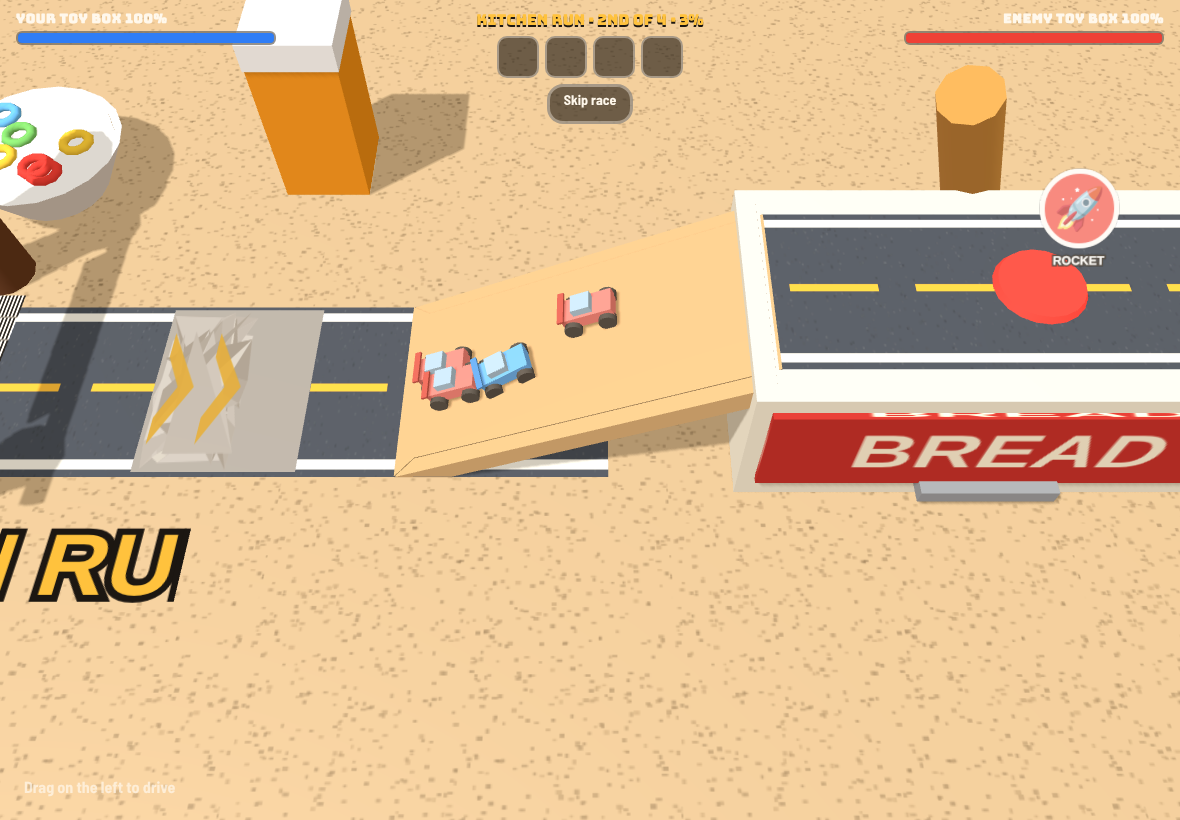
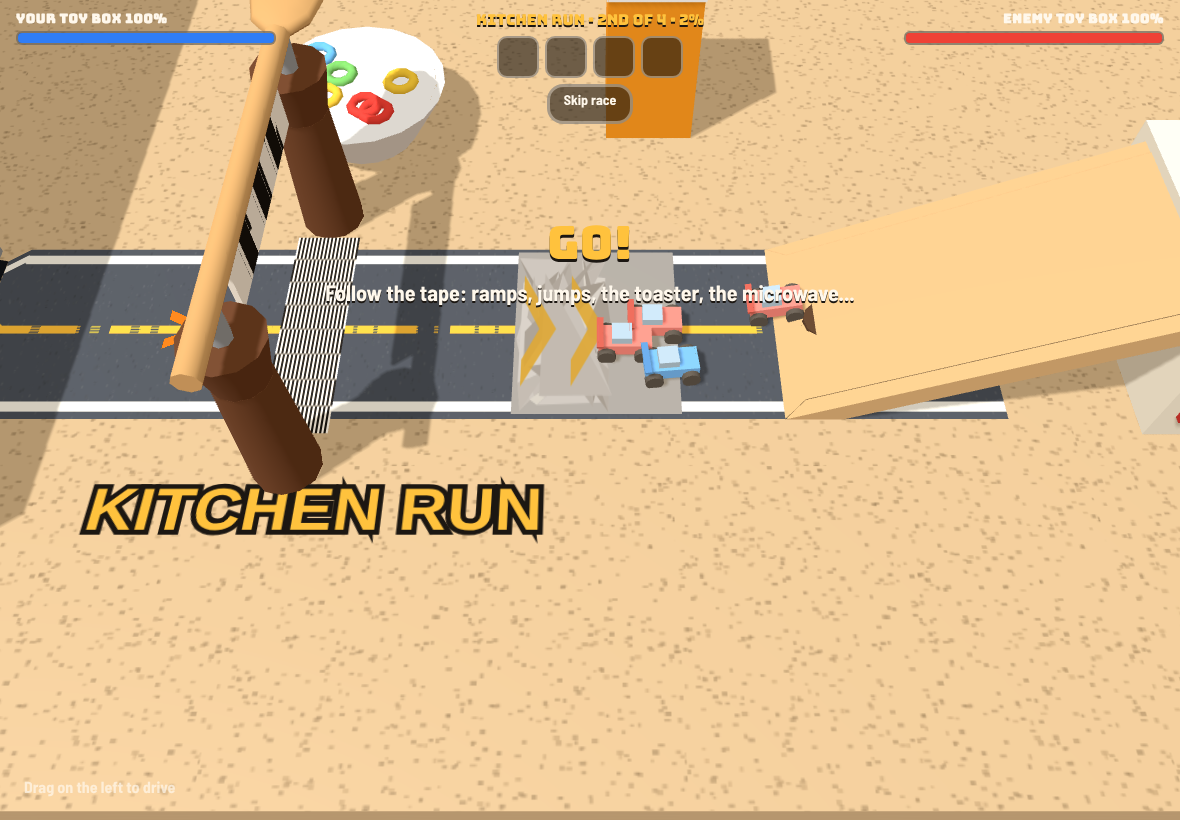
Kitchen Run: fix clipped floor sign, retake shots 42 and 47, test numbers in HANDOVER
Claude-Session: https://claude.ai/code/session_0171oc5wTsPoimaja7RRfUcs

diff --git a/games/baguettes-and-ballistics/index.html b/games/baguettes-and-ballistics/index.html
@@ -6089,7 +6089,7 @@ const kTex = {
   }),
   sky: () => kCanvas(128, 128, (g) => { const gr = g.createLinearGradient(0, 0, 0, 128); gr.addColorStop(0, '#5aa9ef'); gr.addColorStop(1, '#cfe9ff'); g.fillStyle = gr; g.fillRect(0, 0, 128, 128); g.fillStyle = 'rgba(255,255,255,0.85)'; for (const [x, y, r] of [[30, 40, 12], [44, 36, 15], [58, 42, 11], [90, 80, 10], [102, 76, 13]]) { g.beginPath(); g.arc(x, y, r, 0, 7); g.fill(); } g.fillStyle = '#5c8f4a'; g.fillRect(0, 110, 128, 18); }),
   start: () => kCanvas(512, 128, (g) => { for (let i = 0; i < 32; i++) for (let j = 0; j < 8; j++) { g.fillStyle = (i + j) % 2 ? '#1c1712' : '#fff8ec'; g.fillRect(i * 16, j * 16, 16, 16); } }),
-  word: () => kCanvas(512, 128, (g) => { g.font = '900 92px sans-serif'; g.textAlign = 'center'; g.textBaseline = 'middle'; g.lineWidth = 14; g.strokeStyle = '#1c1712'; g.strokeText('KITCHEN RUN', 256, 66); g.fillStyle = '#ffc23d'; g.fillText('KITCHEN RUN', 256, 66); }),
+  word: () => kCanvas(512, 128, (g) => { g.font = '900 62px sans-serif'; g.textAlign = 'center'; g.textBaseline = 'middle'; g.lineWidth = 10; g.strokeStyle = '#1c1712'; g.strokeText('KITCHEN RUN', 256, 66); g.fillStyle = '#ffc23d'; g.fillText('KITCHEN RUN', 256, 66); }),
   road: () => kCanvas(128, 256, (g) => {
     g.fillStyle = '#4b5059'; g.fillRect(0, 0, 128, 256);
     for (let i = 0; i < 500; i++) { const v = 60 + kRand(i) * 40 | 0; g.fillStyle = `rgba(${v},${v + 4},${v + 10},0.6)`; g.fillRect(kRand(i + 1) * 128, kRand(i + 2) * 256, 2, 2); }

diff --git a/games/baguettes-and-ballistics/README.md b/games/baguettes-and-ballistics/README.md
@@ -9,7 +9,7 @@ to play on an iPad. See [DESIGN.md](DESIGN.md) for where it's going.
 - **Keyboard:** WASD or arrows, Space fire, T truck, G digger, 1 gun turret,
   2 rocket turret, U upgrade, 3 drones, 4–9 vehicles at home.
 
-**Loadout Race: the Kitchen Run (every level).** Each level opens with one lap (about 45 to 55 seconds) of an obstacle course through a whole toy kitchen, against three red cars: up a chopping board onto the bread bin and jump the gap, through a kitchen-roll tube (or the risky cutlery-drawer shortcut), up cereal-box ramps to the window sill (or bounce up on the whisk), down a baking-tray slide, over floating sponges in the sink (or along the narrow ruler), up a butter knife into the toaster, which fires you across to the island, round the hob rings (one is hot), over the cake, under the mini fridge and into the microwave: ding, you come out of the oven door at the finish. Fall off and you are back on the road a little way behind. Floating tokens are the tool buttons: drive through one to win that tool. You carry 4 at most (a 5th swaps out your oldest); Gun turret, Dump truck and Digger are always yours, plus one must-have on some levels (Flare on level 3, Gunboat on level 4, Tank squad on level 6). Where you finish sets your starting cereal (1st +40, 2nd +25, 3rd +12, 4th +5) and 1st place gets a free Upgrade. The enemy's best car sets its own limited loadout the same way. A YOUR LOADOUT card then explains each tool in one line, and the battle shows only those buttons (7 to 9 instead of 8 to 13). "Skip race" on the intro gives a ready-made loadout.
+**Loadout Race: the Kitchen Run (every level).** Each level opens with one lap (about 45 to 60 seconds; a perfect run is 40) of an obstacle course through a whole toy kitchen, against three red cars: up a chopping board onto the bread bin and jump the gap, through a kitchen-roll tube (or the risky cutlery-drawer shortcut), up cereal-box ramps to the window sill (or bounce up on the whisk), down a baking-tray slide, over floating sponges in the sink (or along the narrow ruler), up a butter knife into the toaster, which fires you across to the island, round the hob rings (one is hot), over the cake, under the mini fridge and into the microwave: ding, you come out of the oven door at the finish. Fall off and you are back on the road a little way behind. Floating tokens are the tool buttons: drive through one to win that tool. You carry 4 at most (a 5th swaps out your oldest); Gun turret, Dump truck and Digger are always yours, plus one must-have on some levels (Flare on level 3, Gunboat on level 4, Tank squad on level 6). Where you finish sets your starting cereal (1st +40, 2nd +25, 3rd +12, 4th +5) and 1st place gets a free Upgrade. The enemy's best car sets its own limited loadout the same way. A YOUR LOADOUT card then explains each tool in one line, and the battle shows only those buttons (7 to 9 instead of 8 to 13). "Skip race" on the intro gives a ready-made loadout.
 
 **Level select.** The title card has 6 level buttons; pick any level from the start. Stars (win, under 8 minutes, no truck lost) are saved on the device.
 

diff --git a/games/baguettes-and-ballistics/HANDOVER.md b/games/baguettes-and-ballistics/HANDOVER.md
@@ -727,6 +727,8 @@ One lap of an obstacle course through a whole toy kitchen, built in its own spac
 
 **Shared-code edits** (small, marked "Kitchen Run"): `stageLevel` rewritten; `reset` builds the stand-in for every level and starts the race only on it, starting workers only off it; `startRace` → `krStart` when `cfg.kr`; `cleanupRace` → `krCleanup`; `raceProg`, `raceUpdate` (→ `krUpdate`), `raceArrow` (hidden); `tokensUpdate` checks height; `render` calls `krCam` for the race; intro card text; `SOUNDS.ding` added from the block.
 
+**Test numbers (finish, 2 Nov 2026).** A scripted bot that steers at the path 7 points ahead (main line, no shortcuts, picks up all tokens) finishes in 40.2 s on levels 1 to 4 and 6 and 41.1 s on level 5 (hob), 0 falls; a person should take 45 to 60 s. Idle-player rivals: Red 1 finishes at 54 to 56 s, Red 2 about 2 s later, Red 3 later still, all through the toaster flight and the microwave teleport (rubber band +13% when you are behind). Falling off an edge respawns after about 0.45 s, 7 to 9 units back (20 edge points sampled). Memory over 4 race to level cycles: geometries 44 in the race, 161 in the level, textures 12, flat each time (the course is disposed). All six levels play 90 s after Skip race with 0 page errors. The floor sign 'KITCHEN RUN' was clipped by its canvas (92 px font); now 62 px.
+
 **Tokens.** One per tool in `LOADOUTS[level].pool`, alternating sides of the racing line (+-2.6), `tokensUpdate` (player only; the red cars ignore them). Drive through one and it joins `R.carried`; a 5th pops the oldest (`R.swap`, banner, a red "out" chip in the slot strip `#slots`; that tool's token reappears on the track). A token is hidden while you hold its tool. The picture is a coin plus the emoji, drawn once per tool in a canvas (`tokenMat`, kept in `shared()`), on a flat plane tilted to face the fixed camera.
 
 **Tools and levels.** `TOOLS` (name, emoji, colour, button id, key, one-line text) and `LOADOUTS` (per level: `pool`, `must`, `def` for Skip race, `ai`). Always on (`BASICS`): Gun turret, Dump truck, Digger (the economy needs both workers). Must-haves: level 3 Flare (you cannot see without it), level 4 Gunboat (water splits the map), level 6 Tank squad. Pools: L1 Rocket, Drones, Upgrade, Dominoes, Trojan; L2 those plus Staple, Magnet, Catapult, Armour; L3 Rocket, Drones, Upgrade, Dominoes, Trojan, Laser; L4 as L1; L5 Rocket, Drones, Upgrade, Trojan, Staple, Catapult, Armour, Toaster; L6 Bombers, Boat squad, Raiders, Foot soldiers, Rocket, Drones, Upgrade, Toaster.
